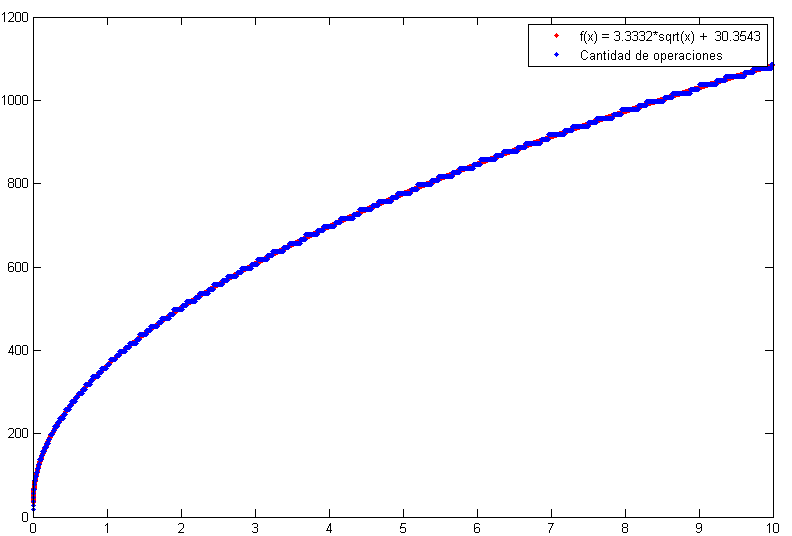
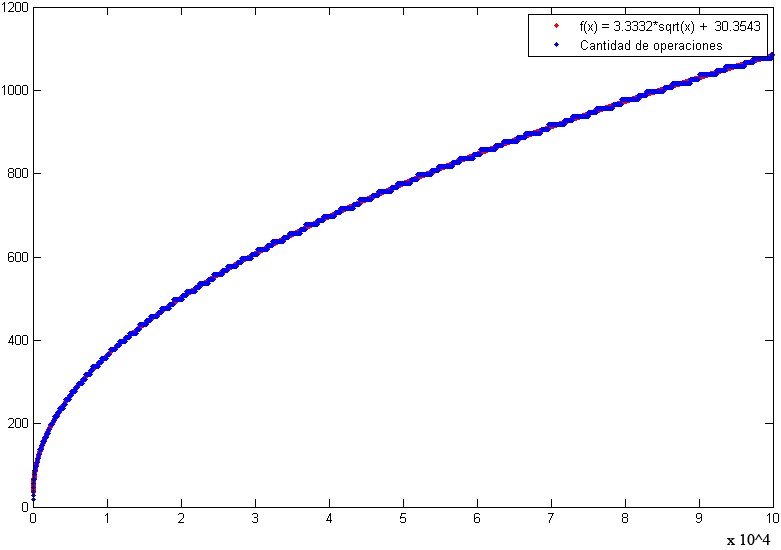
discusion sobre los graficos de primos

diff --git a/tp1/informe/latex/ej1.tex b/tp1/informe/latex/ej1.tex
@@ -13,7 +13,7 @@ requer'ia obtener primeramente todos aquellos primos que sean menores a $n$.
 Un segundo acercamiento nos permiti'o salvar esta dificultad, de manera que no fue necesario obtener 
 los primos menores a $n$ expl'icitamente. El proceso consiste en partir de 2, probar manualmente si 2, 3 y 5 
 dividen a $n$ y a partir  de aqu'i ciclar generando n'umeros de la forma $6*k + 1$ o $6*k + 5$ con $k \geq 1$ 
-(se puede demostrar que los n'umeros primos mayores que 5 tienen esta forma (ver Demostraci'on 1).
+(se puede demostrar que los n'umeros primos mayores que 5 tienen esta forma (ver Demostraci'on 1)).
 \paragraph{}
 Cuando hallamos alg'un n'umero primo que divide a $n$, buscamos su multiplicidad dividiendo nuestro n'umero 
 por dicho primo, tantas veces como sea posible. Una vez calculada, se verifica si esta nueva multiplicidad 
@@ -93,7 +93,6 @@ Ahora solo resta ver que pasa afuera del ciclo. Antes de el hay $cinco$ asignaci
 $$T(n) = \sum_{i=1}^{\sqrt{n}}7 + 9 = 7*\sqrt{n} + 9 \in O(\sqrt{n})$$\\
 Si tomamos esto en cuenta, podemos deducir la complejidad si se toma ahora el tama\~{n}o de $n$ en ves de su valor. si decimos que $t$ es el tama\~{n}o de $n$, entonces $t = log_2(n)$, Luego $n = 2^t$, lo que implica que $\sqrt{n} = 2^{(t/2)}$, con lo cual la complejidad del algortimo en base el tama\~{n}o de entrada es $O(2^t)$.
 
-%TODO: hablar de que sabemos q n no es tam de entrada, que dejamos los graficos porq se ve bien el o(sqrtn), ojo con esto q me parece q es O(raiz*log^3)
 \section{An'alisis Experimental}
 \subsection{Experiencias realizadas}
 Para el an'alisis del algoritmo decidimos medir tanto operaciones como tiempo. Primero medimos dichas variables 
@@ -102,11 +101,8 @@ decidimos realizar otras dos, donde separamos n'umeros primos en una de ellas, y
 de un n'umero primo (en particular de 7). Esto lo hicimos por considerar que el peor caso del algoritmo es 
 precisamente cuando el n'umero es primo, mientras que el mejor caso es cuando el n'umero es potencia de un primo. 
 Por otro lado realizamos experiencias similares pero teniendo en cuenta ya no el numero, sino la cantidad de bits 
-de su representaci'on binaria, es decir teniendo en cuenta el tama\~{n}o de la entrada. Para estas experriencias 
+de su representaci'on binaria, es decir teniendo en cuenta el tama\~{n}o de la entrada. Para estas experiencias 
 tomamos distintos n'umeros pero medimos la cantidad de operaciones y el tiempo en funci'on de $\lfloor log_2(n) \rfloor + 1$.
-
-%TODO: hacer los graficos de tamanio que no estan
-%TODO: revisar los graficos, tratar de q las leyendas se vean bien.
 
 \subsection{Gr'aficos}
 \subsubsection{Gr'aficos en funcion de n}
@@ -134,18 +130,7 @@ tomamos distintos n'umeros pero medimos la cantidad de operaciones y el tiempo e
 \includegraphics[scale=0.5]{../../codigo/ejercicio1/benchmark_de_tiempo/graficos/todos_los_numeros/todosLosNumerosPuntosTiempo.png}
 \caption{Tiempo en funci'on de $n$}
 \end{figure}
-%
-%\begin{figure}[H]
-%\centering
-%\includegraphics[scale=0.5]{../../codigo/ejercicio1/benchmark_de_tiempo/graficos/primos/primosTiempo.png}
-%\caption{Tiempo en funci'on de $n$ para $n$ primo}
-%\end{figure}
-%
-%\begin{figure}[H]
-%\centering
-%\includegraphics[scale=0.5]{../../codigo/ejercicio1/benchmark_de_tiempo/graficos/potencias_de_7/Potencias_de_7_tiempo.png}
-%\caption{Tiempo en funci'on de $n$ para $n$ de la forma $7^k$}
-%\end{figure}
+
 \subsubsection{Gr'aficos en funcion del tama\~{n}o de la entrada}
 \begin{figure}[H]
 \centering
@@ -159,7 +144,20 @@ tomamos distintos n'umeros pero medimos la cantidad de operaciones y el tiempo e
 \caption{Cantidad de operaciones en funci'on del tama\~{n}o de la entrada}
 \end{figure}
 
-
 \section{Discusi'on}
+En los gr'aficos pudimos observar lo que el an'alisis te'orico nos anunci'o.
 
-%TODO: escribir
+En la figura 1, se ve claramente como existen diversos patrones de comportamiento. As'i el techo es un funci'on del tipo ra'iz 
+cuadrada, mientras que debajo se encuentran otras funciones de orden logar'itmico. Esta situaci'on se ve mas claro en los 
+gr'aficos donde solo est'an los n'umeros primos y las potencias de 7. En ambos casos pudimos, mediante cuadrados m'inimos, 
+encontrar una funci'on que se asemeje al comportamiento de las muestras, lo cual refuerza nuestra idea de mejor y peor caso.\\
+El grafico en funci'on del tiempo muestra un comportamiento muy similar al grafico de cantidad de operaciones, pero presenta 
+oultliers que se pueden explicar en el hecho de que tomar tiempos esta sujeto a un error de medici'on producto de los tiempos 
+de asignaci'on del procesador, memoria libre, hits en cach'e, etc.
+
+A la hora de analizar los gr'aficos en funci'on del tamatama\~{n}o de la entrada esperamos ver g'raficos con forma exponencial y fue exactamente eso lo que obtuvimos. En el caso de cantidad de operaciones, se mantuvo lo visto es los otros gr'aficos, es decir que en general los primos requieren mas operaciones que el resto de los n'umeros, mientras que las potencias de siete requieren mucas menos.
+
+Finalmente la figura 6 mantiene la tendencia, y nuevamente presenta outliers propios de los factores externos que intervienen 
+en la medici'on de tiempos.
+
+A modo de conclusi'on podemos afirmar, que la experimentaci'on emp'irica valid'o nuestros resultados te'oricos.
